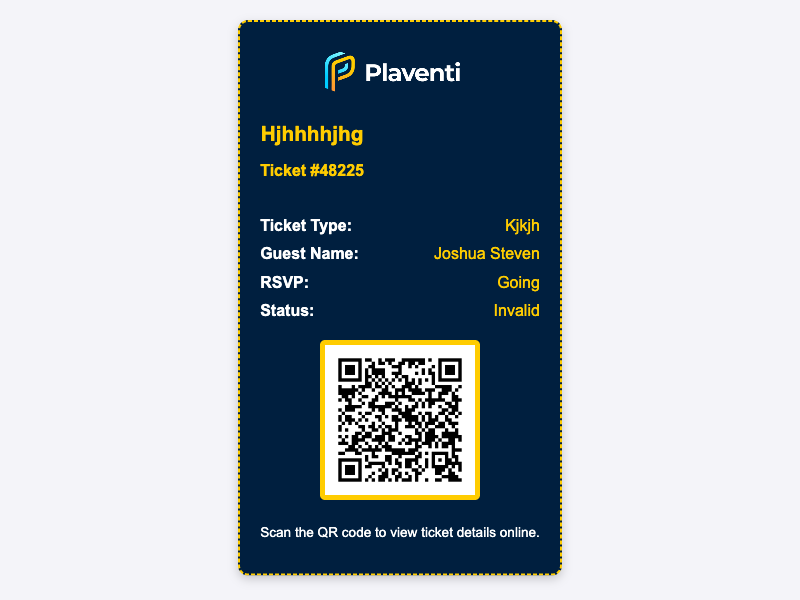
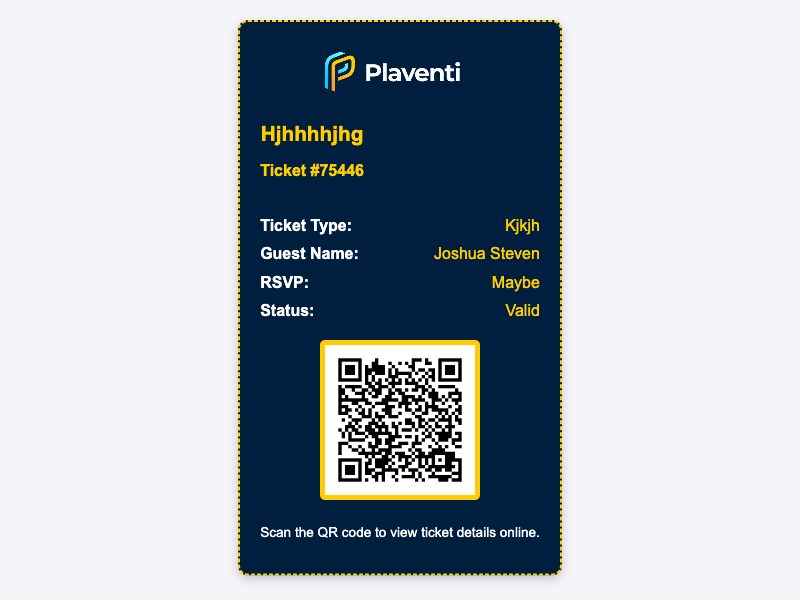
Removed invalid booking restriction

diff --git a/src/app/rest/attendee/bookings/bookings.service.ts b/src/app/rest/attendee/bookings/bookings.service.ts
@@ -183,7 +183,7 @@ export class BookingsService {
   }
 
   findAll(userId: string, { ...query }) {
-    const queryBuilder = this._repo
+    let queryBuilder = this._repo
       .createQueryBuilder('bookings')
       .leftJoinAndSelect('bookings.ticket', 'ticket')
       .leftJoinAndSelect('bookings.event', 'event')
@@ -193,6 +193,7 @@ export class BookingsService {
       });
 
     const { search, dateRangeStart, dateRangeEnd, status } = query;
+    console.log(query);
 
     // check if a search key is supplied
     if (search) {
@@ -525,11 +526,11 @@ export class BookingsService {
         `Paid tickets are not eligible for RSVP update`,
       );
 
-    if (
-      oldReaction !== FreeTicketReaction.NOT_GOING &&
-      booking.status !== BookingStatus.VALID
-    )
-      throw new NotAcceptableException('Only valid tickets can be updated');
+    // if (
+    //   oldReaction !== FreeTicketReaction.NOT_GOING &&
+    //   booking.status !== BookingStatus.VALID
+    // )
+    //   throw new NotAcceptableException('Only valid tickets can be updated');
 
     // unsure the event is not over yet
     const now = new Date();
